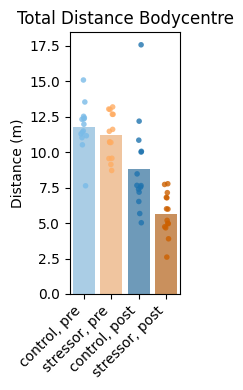
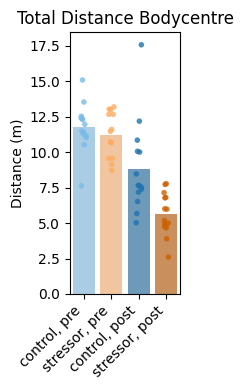
update sns plots to seeded defaults

diff --git a/src/py3r/behaviour/summary/summary_collection_plot_mixin.py b/src/py3r/behaviour/summary/summary_collection_plot_mixin.py
@@ -7,6 +7,9 @@ This mixin is mixed into :class:`SummaryCollection` and provides all
 
 from __future__ import annotations
 
+from contextlib import contextmanager
+
+import numpy as np
 import pandas as pd
 
 
@@ -358,6 +361,20 @@ class SummaryCollectionPlotMixin:
     # -------------------------------------------------------------------------
     # Misc static helpers
     # -------------------------------------------------------------------------
+
+    @staticmethod
+    @contextmanager
+    def _temporary_numpy_seed(random_state: int | None):
+        """Temporarily seed NumPy global RNG for deterministic plotting jitter."""
+        if random_state is None:
+            yield
+            return
+        state = np.random.get_state()
+        np.random.seed(random_state)
+        try:
+            yield
+        finally:
+            np.random.set_state(state)
 
     @staticmethod
     def _smart_sort_labels(labels):
@@ -777,8 +794,10 @@ class SummaryCollectionPlotMixin:
             ax=ax,
             figsize=kwargs.pop("figsize", None),
         )
+        random_state = kwargs.pop("random_state", None)
         spec.sns_kwargs.update(kwargs)
-        plot_func(**spec.sns_kwargs)
+        with self._temporary_numpy_seed(random_state):
+            plot_func(**spec.sns_kwargs)
 
         # Build seaborn params dict for statannotations passthrough
         sns_kw = {
@@ -977,6 +996,7 @@ class SummaryCollectionPlotMixin:
             Plot title.
         **kwargs
             Passed to seaborn.stripplot (e.g., jitter, alpha, size, palette).
+            Also accepts ``random_state`` for deterministic jitter placement.
 
         Returns
         -------
@@ -1347,6 +1367,7 @@ class SummaryCollectionPlotMixin:
             Extra kwargs for stripplot (e.g., alpha, size, jitter).
         **kwargs
             Common kwargs passed to both plots (e.g., palette, dodge).
+            Also accepts ``random_state`` for deterministic jitter placement.
 
         Returns
         -------
@@ -1389,16 +1410,17 @@ class SummaryCollectionPlotMixin:
             ax=ax,
             figsize=kwargs.pop("figsize", None),
         )
+        random_state = kwargs.pop("random_state", None)
 
         # Bar plot (mean + error bars) — base layer
         bar_defaults = {"errorbar": None, "capsize": 0.1, "alpha": 0.7, "zorder": 1}
         bar_kw = {**spec.sns_kwargs, **bar_defaults, **(bar_kwargs or {}), **kwargs}
-        sns.barplot(**bar_kw, legend=False)
-
         # Strip plot (individual dots) — overlay
         strip_defaults = {"alpha": 0.8, "jitter": True, "size": 4, "zorder": 2}
         strip_kw = {**spec.sns_kwargs, **strip_defaults, **(strip_kwargs or {}), **kwargs}
-        sns.stripplot(**strip_kw)
+        with self._temporary_numpy_seed(random_state):
+            sns.barplot(**bar_kw, legend=False)
+            sns.stripplot(**strip_kw)
 
         # Build seaborn params dict for statannotations passthrough
         sns_kw = {

diff --git a/tests/oft_pipeline/oft_pipeline.py b/tests/oft_pipeline/oft_pipeline.py
@@ -611,6 +611,7 @@ print("Summary computation and CSV tests passed.")
 sc.each.time_in_state("kmeans_25").store("time_in_cluster")
 fig, ax, df_strip = sc.snsstrip(
     "time_in_cluster",
+    random_state=42,
     show=True,
     savedir=OUT_DIR,
 )
@@ -621,6 +622,7 @@ fig, ax, df_bar = sc.snsbar(
 )
 fig, ax, df_super = sc.snssuperplot(
     "time_in_cluster",
+    random_state=42,
     show=True,
     savedir=OUT_DIR,
 )
@@ -658,6 +660,7 @@ GROUP_ORDER = {"treatment": ["control", "stressor"], "timepoint": ["pre", "post"
 fig, ax, df_gsup = sc_grouped.snssuperplot(
     "total_distance_bodycentre",
     group_order=GROUP_ORDER,
+    random_state=42,
     show=True,
     savedir=str(OUT_DIR),
 )
@@ -699,6 +702,7 @@ fig, ax, df_interleaved = sc_grouped.snssuperplot(
     "total_distance_bodycentre",
     group_order=GROUP_ORDER,
     sort_by="timepoint",
+    random_state=42,
     show=True,
     savedir=str(OUT_DIR),
     filename="total_distance_interleaved_superplot.png",
@@ -734,6 +738,7 @@ fig_ann, ax_ann, df_ann = sc_grouped.snssuperplot(
     "total_distance_bodycentre",
     group_order=GROUP_ORDER,
     annotate="help",
+    random_state=42,
     show=False,
 )
 
@@ -766,7 +771,7 @@ fig_ann, ax_ann, df_ann = sc_grouped.snsbox(
 
 # %%
 # 1. String key
-fig, ax, _ = sc.snsstrip("total_distance_bodycentre", show=False)
+fig, ax, _ = sc.snsstrip("total_distance_bodycentre", random_state=42, show=False)
 
 # 2. SummaryResult object (inline)
 fig, ax, df_mc = sc.snsbar(
